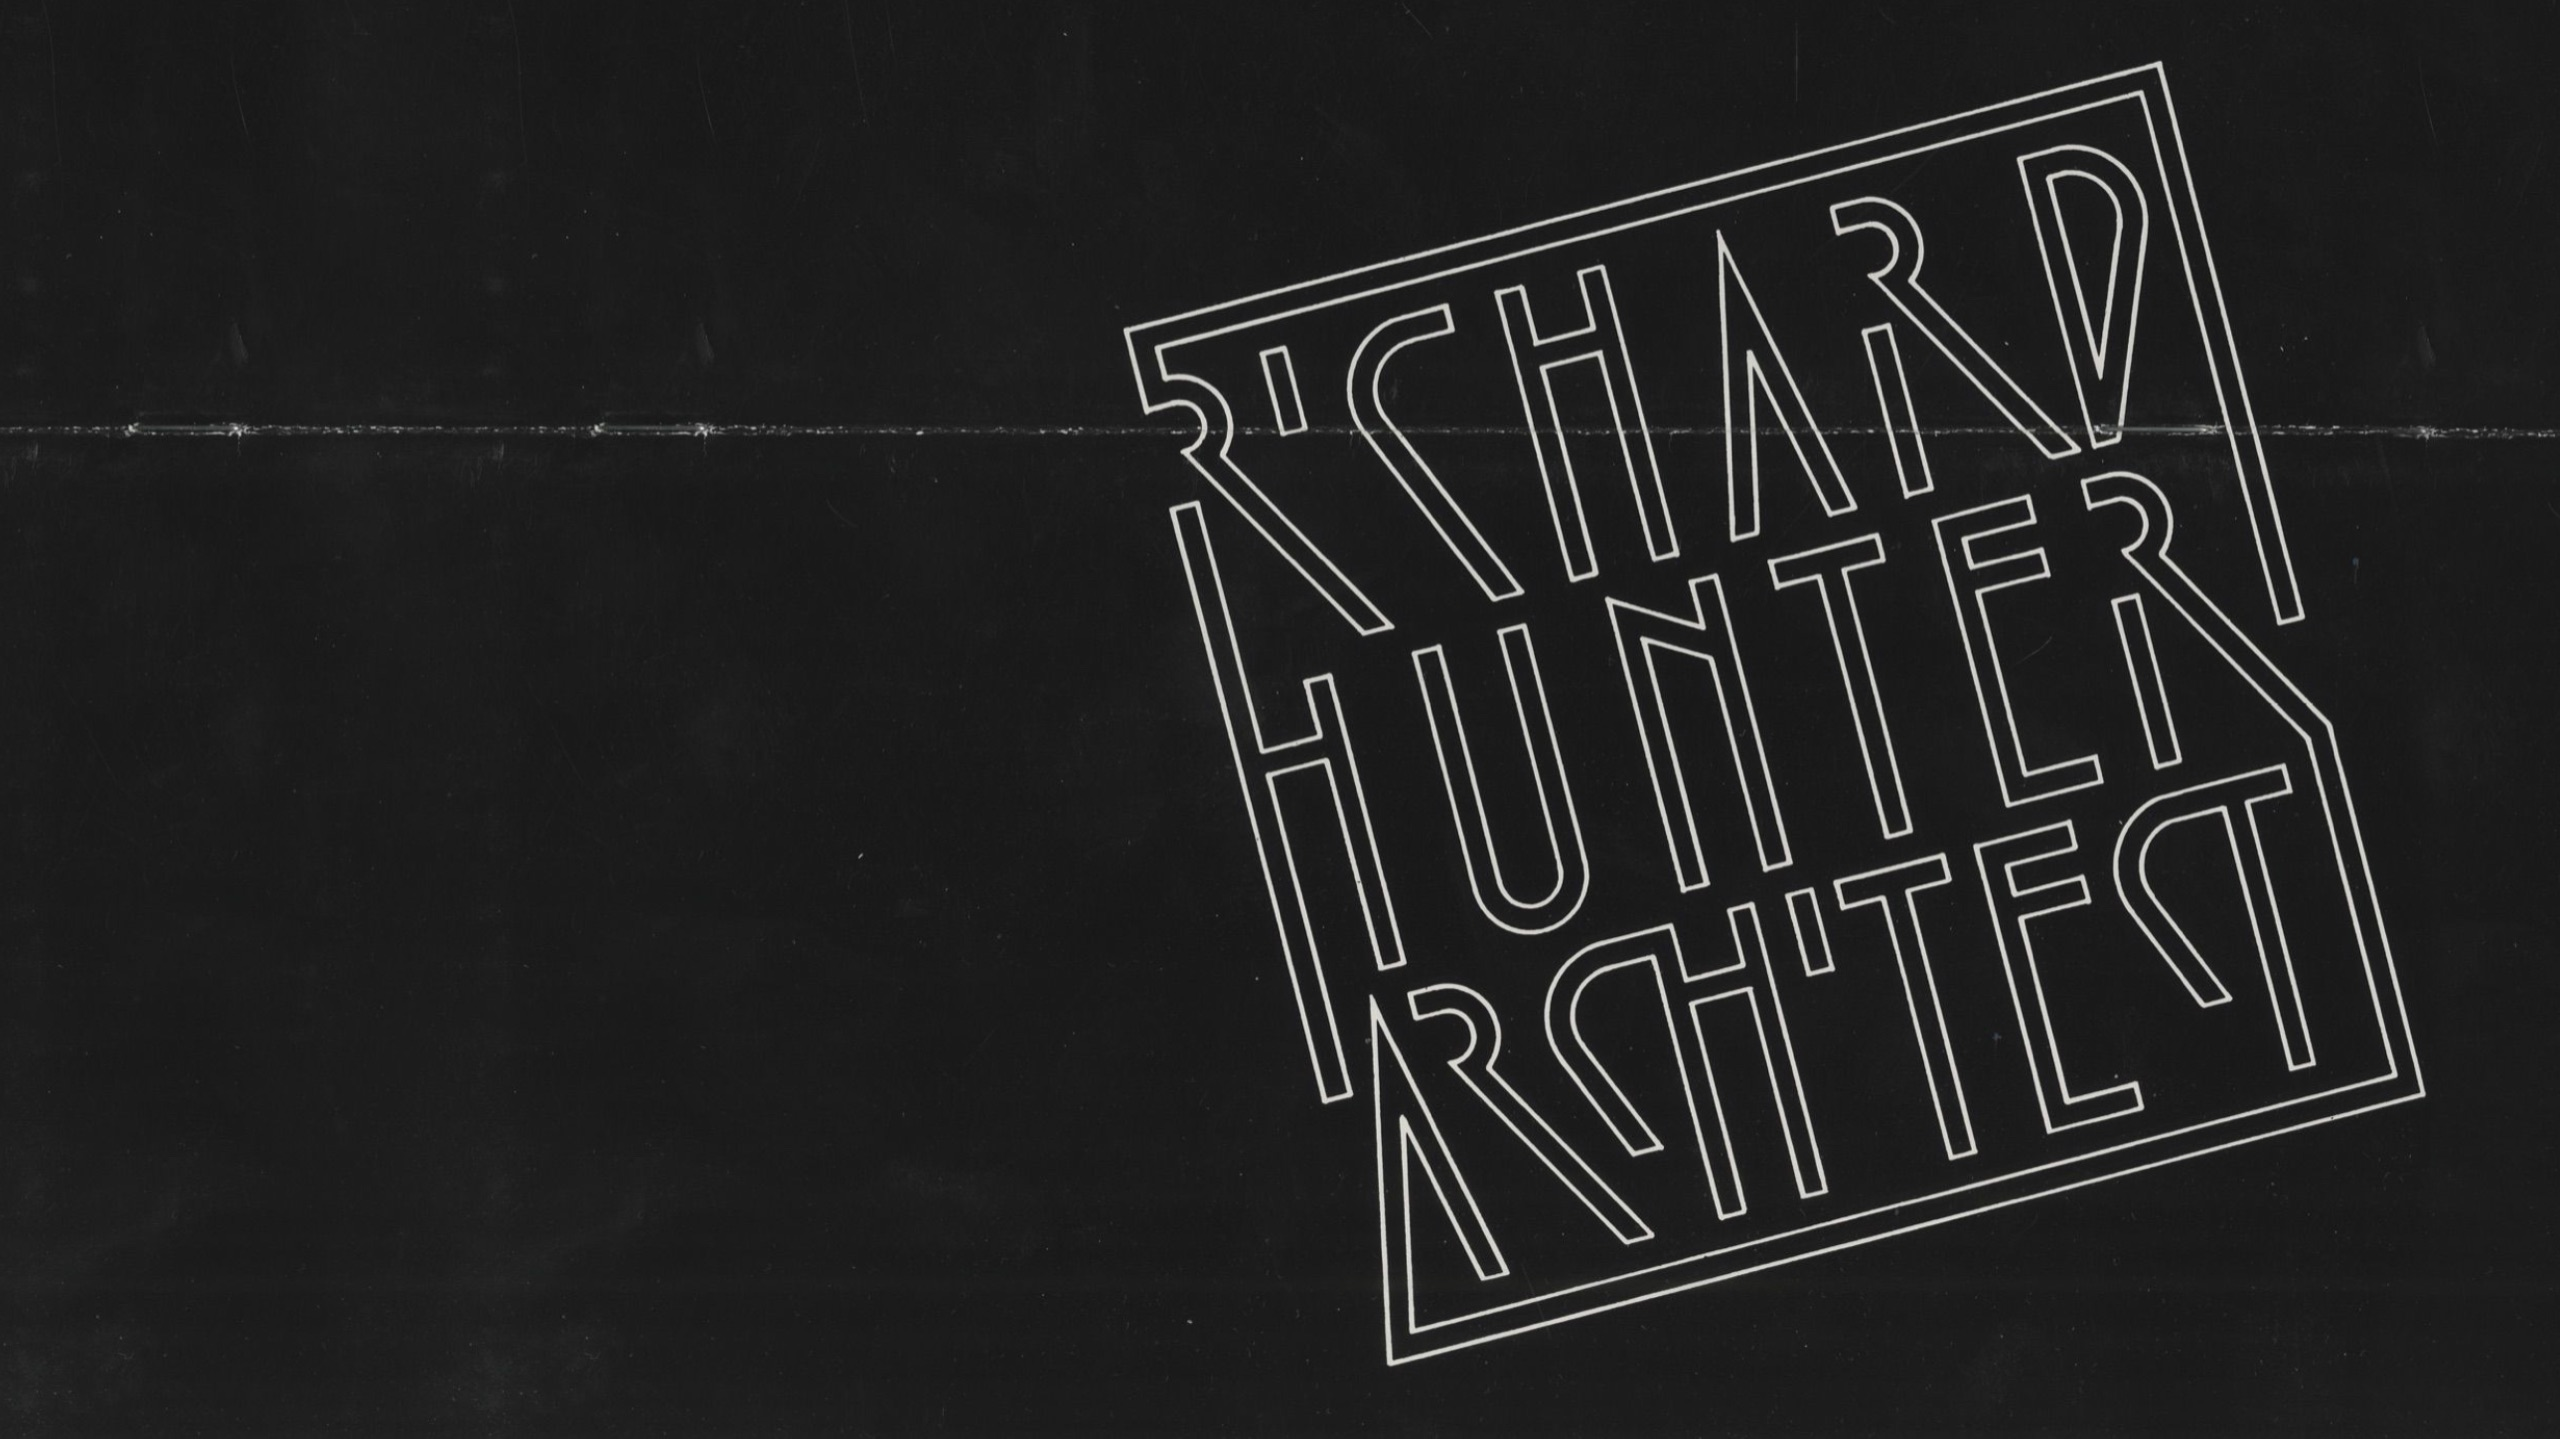
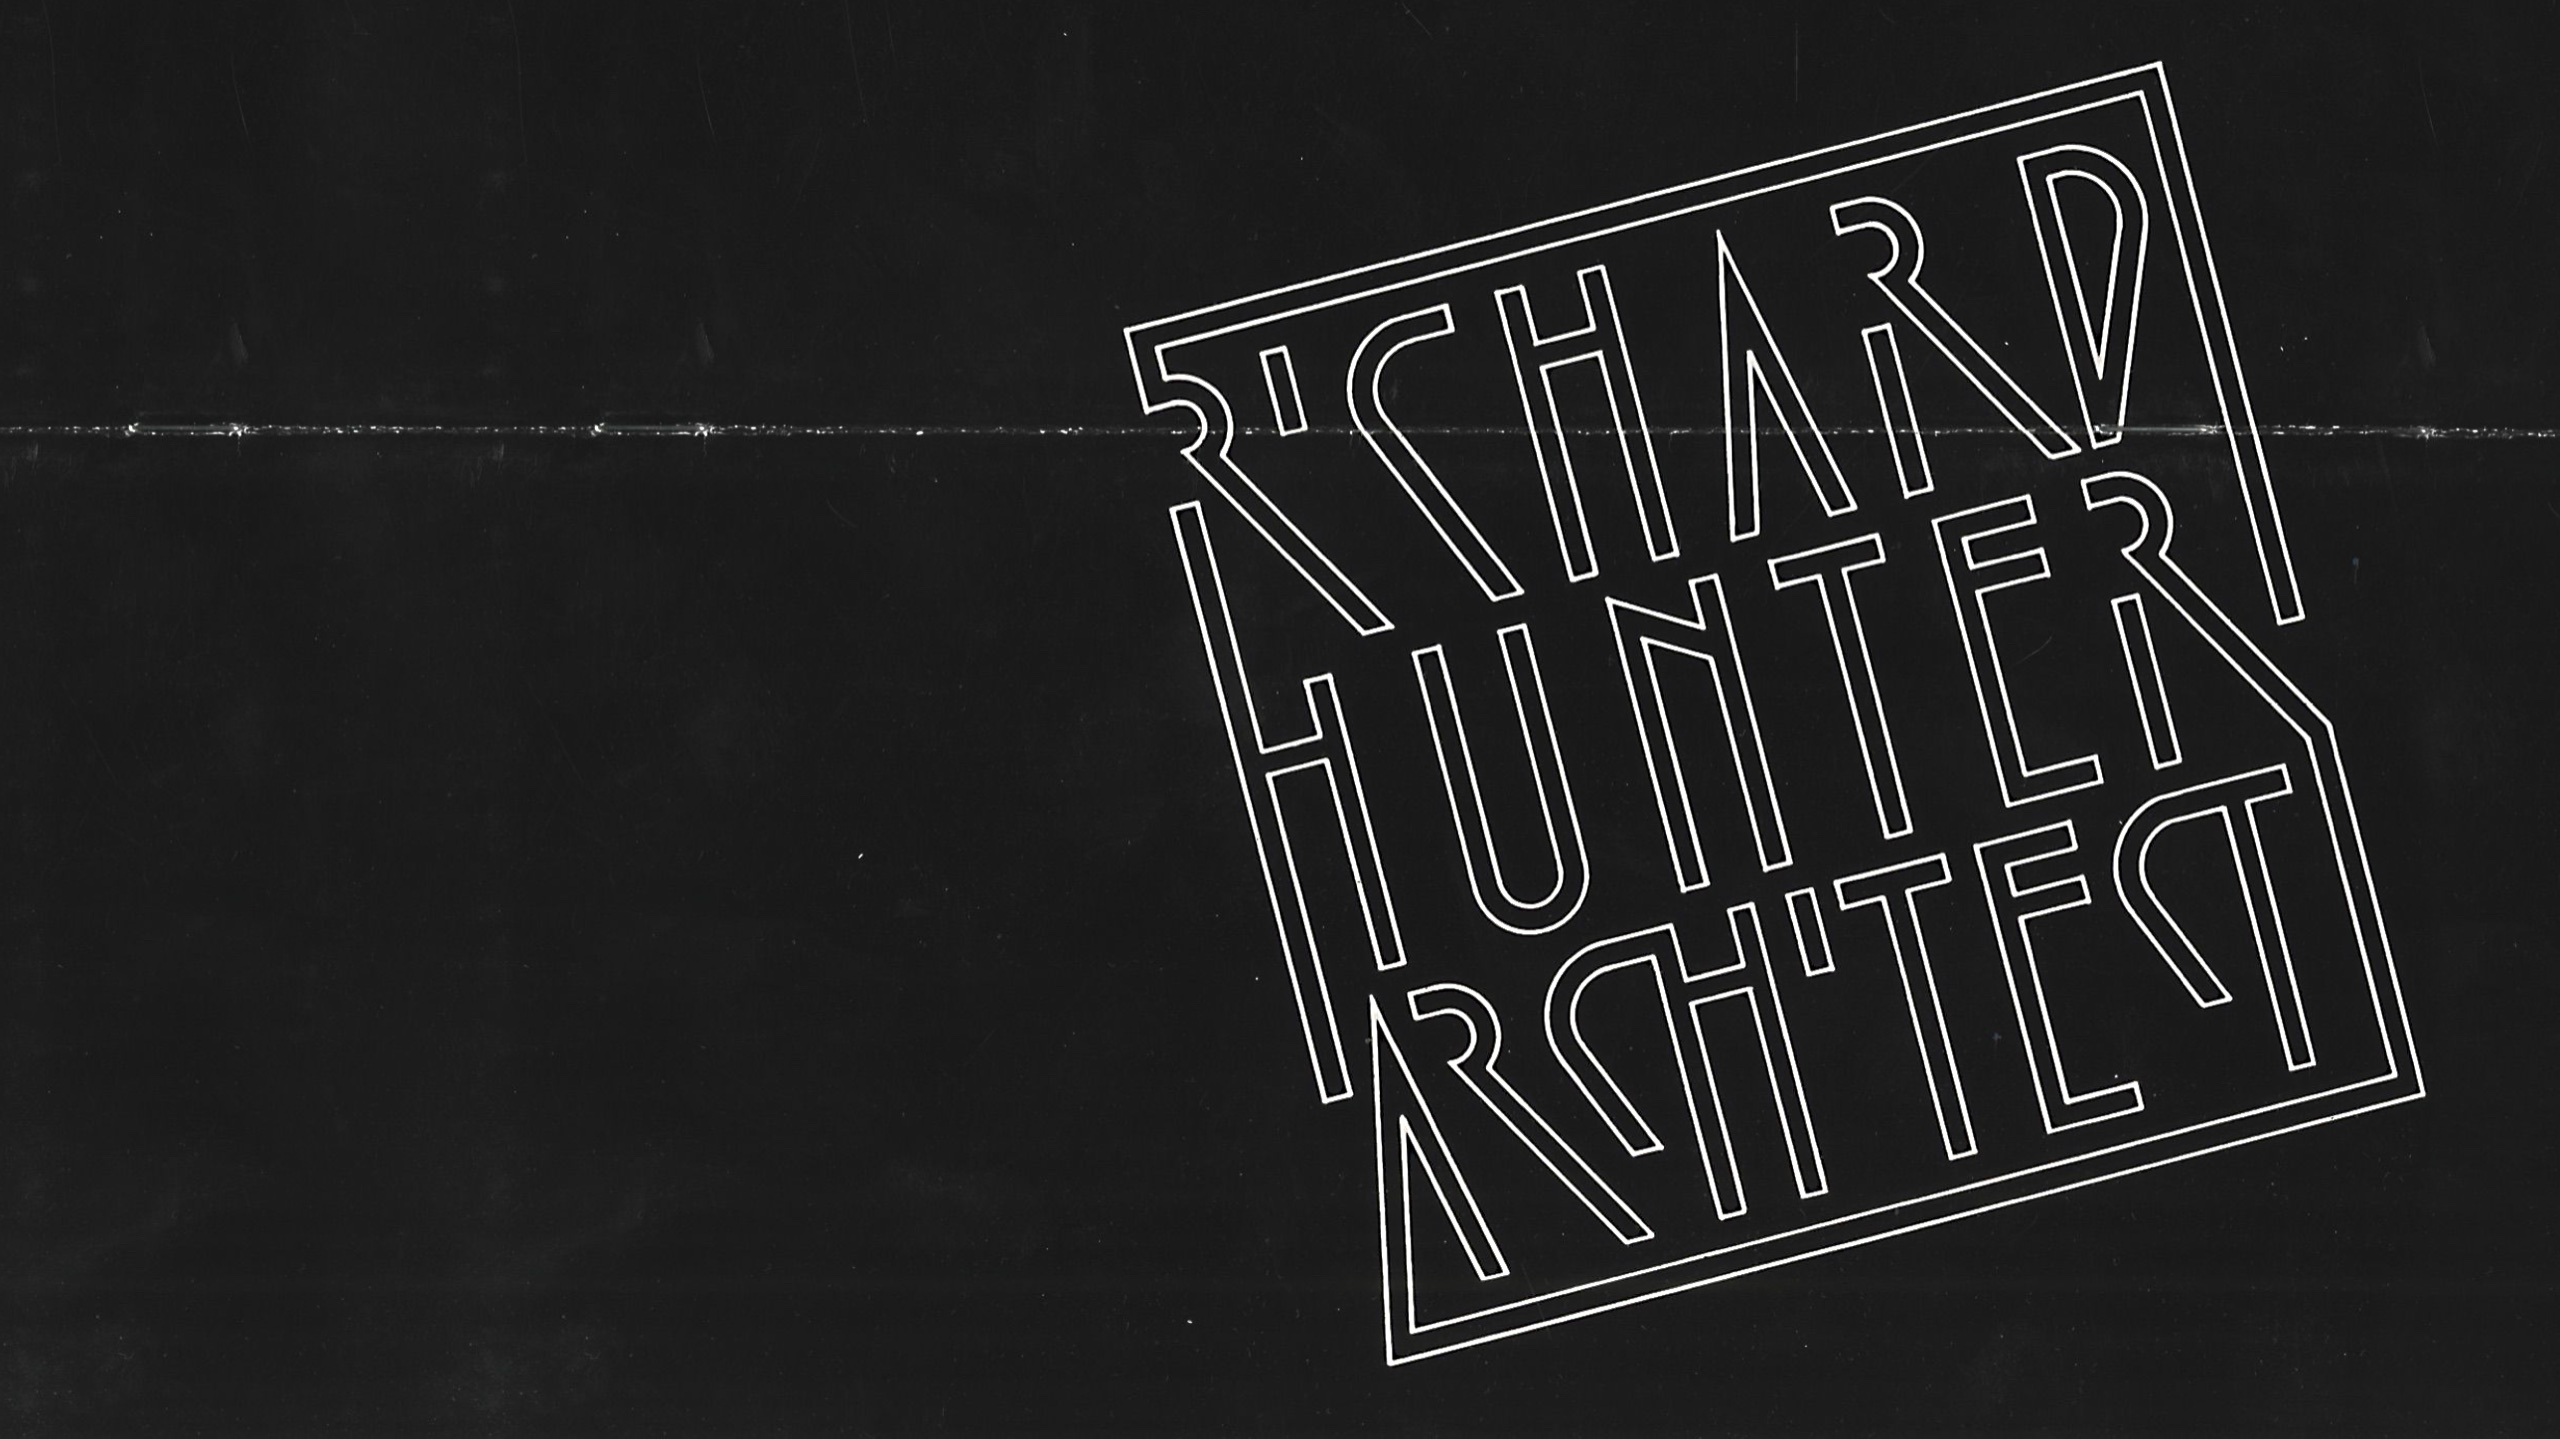
entry-test5 e5-v0.25: (1) Voice A font back to Arial (Brandon preferred it over Helvetica Neue); (2) sharper ARCHIVE nameblock background; (3) SCROLL AUDIT — fix section-doubling: the old 'new swipe?' test was an OR that momentum tripped on its own; now a new swipe must be a strong delta AFTER momen

Changed region(s): [[0.4688, 0.0306, 0.9375, 0.9479], [0.4375, 0.214, 0.5625, 0.4281], [0.875, 0.7338, 0.9688, 0.795]]

diff --git a/entry-test5.html b/entry-test5.html
@@ -31,9 +31,9 @@
 <style>
   *{box-sizing:border-box;margin:0;padding:0}
   html,body{height:100%;overflow:hidden}
-  /* VOICE A — one Helvetica-family grotesque, one weight (500). Inter Tight retired.
+  /* VOICE A — one grotesque, Arial (the previous face Brandon preferred over Helvetica Neue).
      VOICE B — JetBrains Mono (the index/archive register) stays untouched. */
-  body{background:#f6f5f5;font-family:"Helvetica Neue",Helvetica,Arial,sans-serif;color:#1b1918}
+  body{background:#f6f5f5;font-family:Arial,"Helvetica Neue",Helvetica,sans-serif;color:#1b1918}
   #stage{position:fixed;inset:0}
   #menu a:hover{color:#1b1918}
   .st-term{color:#000;border-bottom:1px dashed rgba(27,25,24,.45);cursor:pointer}
@@ -497,7 +497,7 @@
   -->
   <!-- ARCHIVE: the studio nameblock on black -->
   <section class="scard ps cover" data-section="archive">
-    <img class="layer" src="assets/entry/cards/archive/nameblock.jpg" alt="Richard Hunter Architect — studio nameblock">
+    <img class="layer" src="assets/entry/cards/archive/nameblock.jpg?v=2" alt="Richard Hunter Architect — studio nameblock">
     <div class="about-text">
       <p class="at-statement">An openly catalogued, queryable record of the practice — drawings, photographs, correspondence, and models, arranged by collection and free to explore.</p>
       <div class="at-foot">
@@ -525,7 +525,7 @@
   <button class="room-x" id="room-x" aria-label="Close">×</button>
   <div class="room-pager"><button id="room-prev" aria-label="Previous">‹</button><span><span id="room-n">1</span> / <span id="room-m">1</span></span><button id="room-next" aria-label="Next">›</button></div>
 </div>
-<div id="ver" style="position:fixed;right:12px;bottom:10px;z-index:9;font-family:'JetBrains Mono',Menlo,monospace;font-size:9px;letter-spacing:.06em;color:rgba(27,25,24,.35);pointer-events:none">e5-v0.23</div>
+<div id="ver" style="position:fixed;right:12px;bottom:10px;z-index:9;font-family:'JetBrains Mono',Menlo,monospace;font-size:9px;letter-spacing:.06em;color:rgba(27,25,24,.35);pointer-events:none">e5-v0.25</div>
 
 <script>
 // entry-test2 v0.36 — z: 0..1 the entry photograph (title → wordmark) ·
@@ -1265,7 +1265,7 @@
   var _snapDir = 1, _snapLast = surveyEl.scrollTop, _snapTimer = null, _snapping = false;
   var SNAP_ADV = 0.66;   // how far you must scroll toward the next card before it advances
   function doSnap() {
-    if (mode !== "survey" || _snapping || paging || _wLock) return;
+    if (mode !== "survey" || _snapping || paging || _locked) return;
     var vh = window.innerHeight, st = surveyEl.scrollTop, idx = st / vh, frac = idx - Math.floor(idx), target;
     if (frac < 0.002 || frac > 0.998) return;   // already parked on a card
     if (_snapDir >= 0) target = (frac >= SNAP_ADV)       ? Math.ceil(idx)  : Math.floor(idx);   // down: advance only past ADV, else settle back
@@ -1286,36 +1286,34 @@
     _snapTimer = setTimeout(doSnap, 180);   // a touch more dwell before it settles
   }, { passive: true });
 
-  // ── SURVEY paging: one swipe / wheel gesture = one full-screen card (a quick snap
-  //    that locks the card to the frame). A slow, deliberate drag scrubs between them,
-  //    overriding the snap. Native momentum is taken over so a flick can't skip pages.
-  var ty = null;
-  var _wLock = false, _wTimer = null, _wLastT = 0, _wPrevAbs = 0, _tY0 = 0, _tLastY = 0, _tT0 = 0, _tActive = false;
-  function _pageFrom(dir) { goPage(pageIdx + dir); }   // one page from the COMMITTED page (not the mid-animation scroll)
+  // ── SURVEY paging — audited ───────────────────────────────────────────────
+  //  Doubling cause (old code): the "new swipe?" test was an OR — (gap>120) OR a
+  //  delta spike. Momentum trips EITHER alone (a stutter gap in the tail; a ramp-up
+  //  at the start), so a momentum event paged a 2nd time.
+  //  Fix: a new swipe must show a real pause AND a strong delta AT ONCE — momentum
+  //  never does. The cooldown extends while wheel events keep arriving, so the whole
+  //  momentum tail is absorbed as ONE page; only a genuine new swipe breaks it.
+  //  Wheel is a pure pager (no scrub → nothing to leak). Touch keeps its drag-scrub.
+  var ty = null, _locked = false, _lockT = null, _wLastT = 0, _decayed = false;
+  var _tY0 = 0, _tLastY = 0, _tT0 = 0, _tActive = false;
+  function _pageFrom(dir) { goPage(pageIdx + dir); }   // one page from the COMMITTED page (not the mid-glide scroll)
+  function _cool() { clearTimeout(_lockT); _lockT = setTimeout(function () { _locked = false; }, 260); }   // extends over momentum gaps
   window.addEventListener("wheel", function (e) {
     if (mode === "house") { e.preventDefault(); nudge(e.deltaY / 900); return; }
     if (mode !== "survey" || document.body.classList.contains("room-open")) return;
-    e.preventDefault();                            // take over vertical navigation
+    e.preventDefault();
     var now = Date.now(), gap = now - _wLastT, ad = Math.abs(e.deltaY), dir = e.deltaY > 0 ? 1 : -1;
     _wLastT = now;
-    // a NEW gesture = a pause since the last event, OR a fresh delta spiking up out of the
-    // decaying momentum tail. This is what lets a second swipe page while the previous
-    // flick's momentum is still trickling in (rather than being absorbed as tail).
-    var fresh = (gap > 120) || (ad >= 30 && ad > _wPrevAbs * 2);
-    _wPrevAbs = ad;
-    if (_wLock) {                                  // inside the previous gesture's momentum tail
-      clearTimeout(_wTimer); _wTimer = setTimeout(function () { _wLock = false; }, 180);   // keep absorbing the tail
-      if (fresh && ad >= 18) _pageFrom(dir);       // ...unless a genuine new swipe broke through → page again
+    if (_locked) {                                 // still inside the last gesture's momentum tail
+      _cool();                                     // keep absorbing while events keep arriving
+      if (ad < 15) _decayed = true;                // momentum has decayed toward stop (it can't climb back)
+      // a genuine NEW swipe = a strong delta AFTER momentum has decayed. Momentum
+      // physically can't produce a strong delta once decayed → this can NOT double.
+      if (ad >= 45 && _decayed) { _pageFrom(dir); _decayed = false; }
       return;
     }
-    if (ad >= 22) {                                // decisive → snap one page, then absorb its tail
-      _wLock = true; _pageFrom(dir);
-      clearTimeout(_wTimer); _wTimer = setTimeout(function () { _wLock = false; }, 180);
-    } else {                                       // gentle → scrub freely, then settle
-      surveyEl.scrollTop += e.deltaY * 1.15;
-      _snapDir = dir;
-      clearTimeout(_snapTimer); _snapTimer = setTimeout(doSnap, 200);
-    }
+    if (ad < 20) return;                           // ignore noise
+    _pageFrom(dir); _locked = true; _decayed = false; _cool();
   }, { passive: false });
   window.addEventListener("touchstart", function (e) {
     if (mode === "house") { ty = e.touches[0].clientY; return; }
@@ -1333,8 +1331,8 @@
     if (mode === "house") { ty = null; return; }
     if (!_tActive) return; _tActive = false;
     var dy = e.changedTouches[0].clientY - _tY0, dt = Math.max(1, Date.now() - _tT0), v = dy / dt;   // dy<0 = swipe up = next
-    if (Math.abs(dy) > 24 && Math.abs(v) > 0.3) _pageFrom(dy < 0 ? 1 : -1);                          // quick flick → one page
-    else { _snapDir = dy < 0 ? 1 : -1; clearTimeout(_snapTimer); _snapTimer = setTimeout(doSnap, 40); }   // slow drag → settle
+    if (!_locked && Math.abs(dy) > 24 && Math.abs(v) > 0.3) { _pageFrom(dy < 0 ? 1 : -1); _locked = true; _cool(); }   // quick flick → one page
+    else { _snapDir = dy < 0 ? 1 : -1; clearTimeout(_snapTimer); _snapTimer = setTimeout(doSnap, 40); }               // slow drag → settle
   }, { passive: true });
   // ── THE ROOM (1C): full-bleed lateral takeover, horizontal plate paging (3b).
   //    Content is data-driven so HOUSE and HUNTER reuse one component. Placeholder
@@ -1445,7 +1443,7 @@
   if (document.fonts && document.fonts.ready) document.fonts.ready.then(function () { apply(); });
 
   apply();
-  console.log("entry-test5 e5-v0.23 — 1C lateral rooms (HOUSE/HUNTER) with horizontal plate paging");
+  console.log("entry-test5 e5-v0.25 — 1C lateral rooms (HOUSE/HUNTER) with horizontal plate paging");
 })();
 </script>
 </body>
